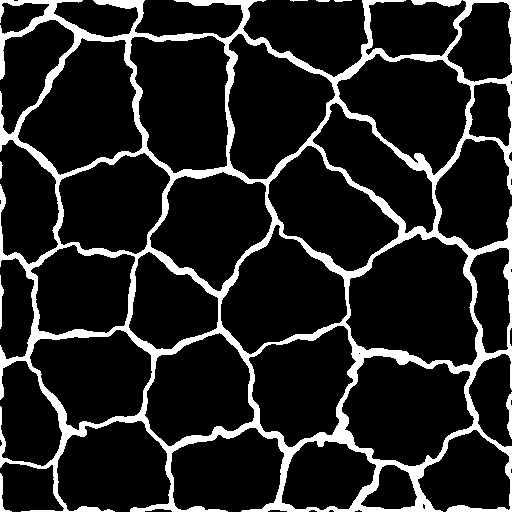
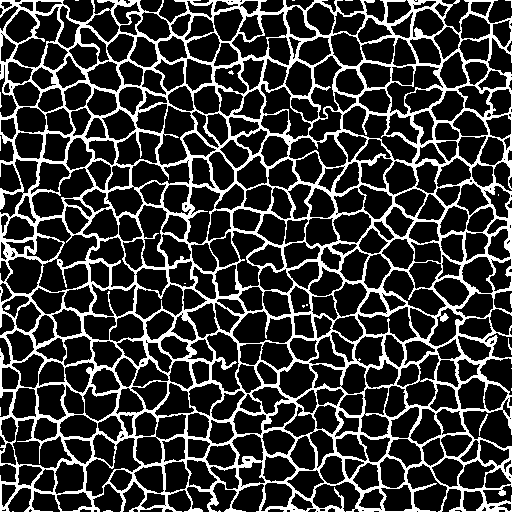
improved PCG support; improved PCG tests

Changed region(s): [[0.0, 0.0, 1.0, 1.0]]

diff --git a/src/pcg.rs b/src/pcg.rs
@@ -58,6 +58,43 @@ impl<T: Copy> Grid<T> {
         result
     }
 
+    pub fn apply(
+        &mut self,
+        from: impl Into<Vec2<usize>>,
+        to: impl Into<Vec2<usize>>,
+        mut generator: impl GridGenetator<T>,
+    ) {
+        if self.buffer.is_empty() {
+            return;
+        }
+        let from = from.into();
+        let to = to.into();
+        for y in from.y..to.y {
+            for x in from.x..to.x {
+                let location = Vec2::new(x, y);
+                let index = self.index(location);
+                self.buffer[index] =
+                    generator.generate(location, self.size, self.buffer[index], self);
+            }
+        }
+    }
+
+    pub fn apply_all(&mut self, generator: impl GridGenetator<T>) {
+        self.apply(0, self.size, generator);
+    }
+
+    pub fn map<U: Copy>(&self, mut f: impl FnMut(Vec2<usize>, Vec2<usize>, T) -> U) -> Grid<U> {
+        Grid {
+            size: self.size,
+            buffer: self
+                .buffer
+                .iter()
+                .enumerate()
+                .map(|(index, value)| f(self.location(index), self.size, *value))
+                .collect(),
+        }
+    }
+
     pub fn into_inner(self) -> (Vec2<usize>, Vec<T>) {
         (self.size, self.buffer)
     }
@@ -218,38 +255,6 @@ impl<T: Copy> Grid<T> {
         let index = self.index(location);
         if let Some(item) = self.buffer.get_mut(index) {
             *item = value;
-        }
-    }
-
-    pub fn apply(
-        &mut self,
-        from: impl Into<Vec2<usize>>,
-        to: impl Into<Vec2<usize>>,
-        mut generator: impl GridGenetator<T>,
-    ) {
-        if self.buffer.is_empty() {
-            return;
-        }
-        let from = from.into();
-        let to = to.into();
-        for y in from.y..to.y {
-            for x in from.x..to.x {
-                let location = Vec2::new(x, y);
-                let index = self.index(location);
-                self.buffer[index] =
-                    generator.generate(location, self.size, self.buffer[index], self);
-            }
-        }
-    }
-
-    pub fn apply_all(&mut self, generator: impl GridGenetator<T>) {
-        self.apply(0, self.size, generator);
-    }
-
-    pub fn map<U: Copy>(&self, mut f: impl FnMut(T) -> U) -> Grid<U> {
-        Grid {
-            size: self.size,
-            buffer: self.buffer.iter().map(|value| f(*value)).collect(),
         }
     }
 }
@@ -600,6 +605,14 @@ mod tests {
 
     const SIZE: usize = 512;
 
+    #[derive(Debug, Clone, Copy, PartialEq, Eq)]
+    enum Terrain {
+        Water,
+        Sand,
+        Grass,
+        Mountain,
+    }
+
     fn gradient_generator(location: Vec2<usize>, size: Vec2<usize>, _: f64) -> f64 {
         let center = size / 2;
         let x = if location.x >= center.x {
@@ -668,10 +681,9 @@ mod tests {
         }
     }
 
-    #[test]
-    fn test_pcg_island() {
+    fn generate_terrain(size: Vec2<usize>) -> Grid<Terrain> {
         let mut grid = Grid::<f64>::generate(
-            SIZE.into(),
+            size,
             NoiseGenerator::new(
                 Fbm::<SuperSimplex>::default()
                     .set_octaves(9)
@@ -684,32 +696,22 @@ mod tests {
         });
         let gradient = grid.fork_generate(gradient_generator);
         grid.apply_all(SubGenerator { other: &gradient });
-
-        let (size, buffer) = grid.into_inner();
-        let buffer = buffer
-            .into_iter()
-            .flat_map(|value| {
-                if value > 0.7 {
-                    [255, 255, 255]
-                } else if value > 0.5 {
-                    [128, 128, 128]
-                } else if value > 0.2 {
-                    [0, 128, 0]
-                } else if value > 0.15 {
-                    [192, 192, 128]
-                } else {
-                    [0, 0, 128]
-                }
-            })
-            .collect();
-        let image = RgbImage::from_vec(size.x as _, size.y as _, buffer).unwrap();
-        image.save("./resources/island.png").unwrap();
+        grid.map(|_, _, value| {
+            if value > 0.5 {
+                Terrain::Mountain
+            } else if value > 0.2 {
+                Terrain::Grass
+            } else if value > 0.15 {
+                Terrain::Sand
+            } else {
+                Terrain::Water
+            }
+        })
     }
 
-    #[test]
-    fn test_pcg_caves() {
+    fn generate_tunnels(size: Vec2<usize>) -> Grid<bool> {
         let offsets = Grid::<f64>::generate(
-            SIZE.into(),
+            size,
             NoiseGenerator::new(ScalePoint::new(SuperSimplex::default()).set_scale(0.04)),
         );
         let offsets = Grid::<Vec2<isize>>::generate(
@@ -719,20 +721,18 @@ mod tests {
                 scale: 20.0,
             },
         );
-
         let mut thresholds = Grid::<f64>::generate(
-            SIZE.into(),
+            size,
             NoiseGenerator::new(ScalePoint::new(SuperSimplex::default()).set_scale(0.02)),
         );
         thresholds.apply_all(RemapGenerator {
             from: -1.0..1.0,
-            to: 0.0..0.2,
+            to: 0.0..0.4,
         });
-
         let mut grid = Grid::<f64>::generate(
-            SIZE.into(),
+            size,
             OffsetLocationGenerator {
-                generator: &mut NoiseGenerator::new(Worley::default().set_frequency(0.01)),
+                generator: &mut NoiseGenerator::new(Worley::default().set_frequency(0.04)),
                 offsets: &offsets,
             },
         );
@@ -746,7 +746,7 @@ mod tests {
             value_upper: 1.0,
             value_lower: 0.0,
         });
-        for _ in 0..7 {
+        for _ in 0..1 {
             grid.apply_all(Kernel33Generator::gaussian_blur(&grid.clone()));
         }
         grid.apply_all(ThresholdGenerator::Samples {
@@ -754,11 +754,44 @@ mod tests {
             value_upper: 1.0,
             value_lower: 0.0,
         });
+        grid.map(|_, _, value| value >= 0.5)
+    }
 
-        let (size, buffer) = grid.into_inner();
+    #[test]
+    fn test_pcg_island() {
+        let terrain = generate_terrain(SIZE.into());
+        let tunnels = generate_tunnels(SIZE.into());
+
+        let (size, buffer) = terrain.into_inner();
         let buffer = buffer
             .into_iter()
-            .map(|value| (value * 255.0) as u8)
+            .enumerate()
+            .flat_map(|(index, value)| match value {
+                Terrain::Mountain => {
+                    let location = tunnels.location(index);
+                    if tunnels.get(location).unwrap() {
+                        [64, 64, 64]
+                    } else {
+                        [128, 128, 128]
+                    }
+                }
+                Terrain::Grass => [0, 128, 0],
+                Terrain::Sand => [192, 192, 128],
+                Terrain::Water => [0, 0, 128],
+            })
+            .collect();
+        let image = RgbImage::from_vec(size.x as _, size.y as _, buffer).unwrap();
+        image.save("./resources/island.png").unwrap();
+    }
+
+    #[test]
+    fn test_pcg_tunnels() {
+        let tunnels = generate_tunnels(SIZE.into());
+
+        let (size, buffer) = tunnels.into_inner();
+        let buffer = buffer
+            .into_iter()
+            .map(|value| if value { 255 } else { 0 })
             .collect();
         let image = GrayImage::from_vec(size.x as _, size.y as _, buffer).unwrap();
         image.save("./resources/caves.png").unwrap();
